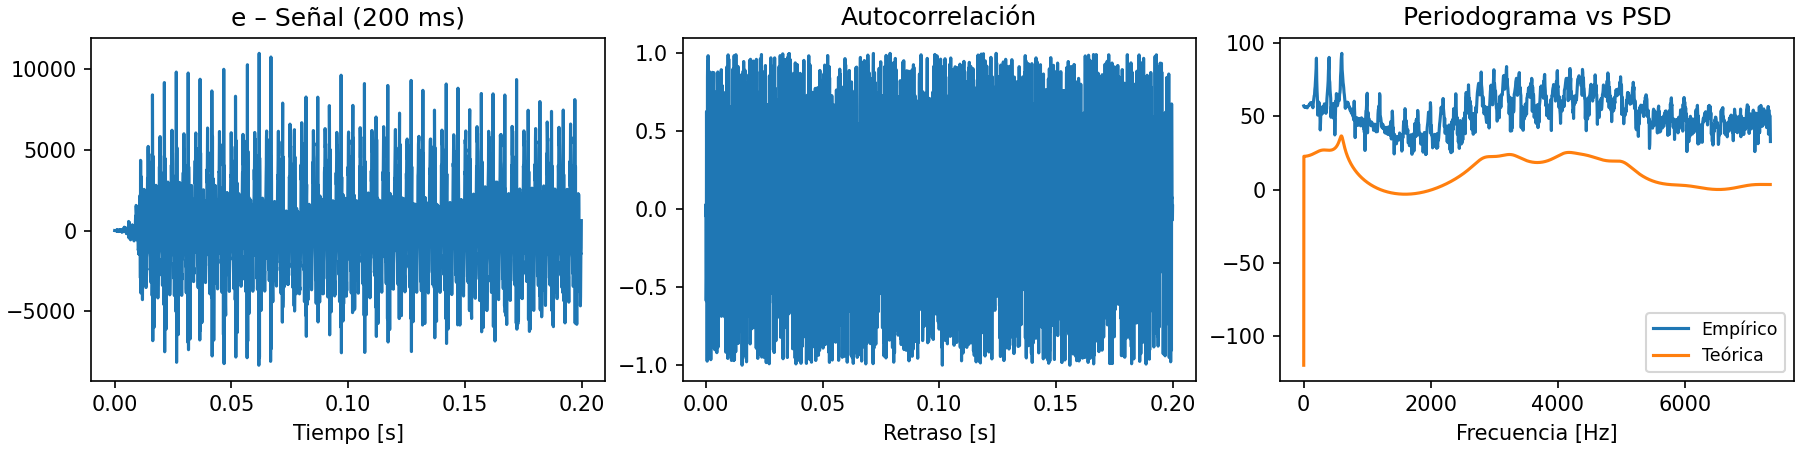
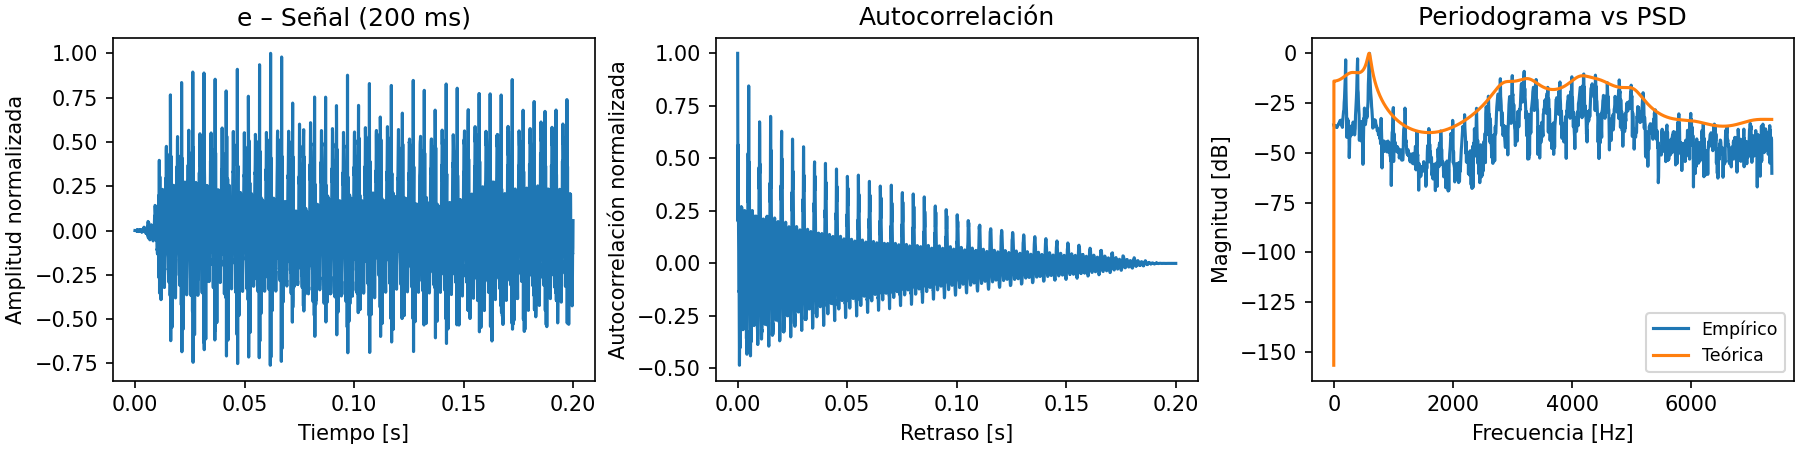
corregido ej1

diff --git a/Ej1.py b/Ej1.py
@@ -12,13 +12,18 @@ output_dir = 'output/ej1'
 os.makedirs(output_dir, exist_ok=True)
 
 for p in phonemes:
-    # Cargo y recorto 200 ms
+    # 1) Cargo WAV y tomo 200 ms
     rate, x = wavfile.read(f'{p}.wav')
-    assert rate == fs, f"Se esperaba {fs} Hz, pero {rate} Hz en {p}.wav"
+    assert rate == fs, f"Se esperaba {fs} Hz en {p}.wav, pero vino {rate} Hz"
     N = int(0.2 * fs)
-    seg = x[:N]
+    seg = x[:N].astype(float)
 
-    # Dominio del tiempo
+    # Normalizar señal a [-1,1]
+    max_val = np.max(np.abs(seg))
+    if max_val > 0:
+        seg /= max_val
+
+    # Eje de tiempo en segundos
     t = np.arange(N) / fs
 
     # Autocorrelación normalizada
@@ -26,13 +31,13 @@ for p in phonemes:
     ac = ac_full[N-1:] / np.max(np.abs(ac_full[N-1:]))
     lags = np.arange(len(ac)) / fs
 
-    # Periodograma con FFT de NumPy
+    # Periodograma empírico (FFT)
     X = np.fft.rfft(seg, n=N)
-    Pxx = (np.abs(X)**2) / N
+    Pxx = np.abs(X)**2 / N
     freqs = np.fft.rfftfreq(N, d=1/fs)
     Pxx_db = 10 * np.log10(Pxx + 1e-12)
 
-    # PSD teórica usando freqz
+    # PSD teórica del modelo AR
     a_coeffs = data.coef_a[p]
     b_coeffs = data.coef_b[p]
     b = b_coeffs
@@ -40,8 +45,7 @@ for p in phonemes:
     w, H = freqz(b, a, worN=N, fs=fs)
     H2 = np.abs(H)**2
 
-    # PSD de excitación
-    if p in ['sh', 'f', 's', 'j']:
+    if p in ['sh','f','s','j']:
         Su = np.ones_like(w)
     else:
         f_p, Su_p = data.psd_pulsos(f0=200, N=N, fs=fs)
@@ -50,17 +54,34 @@ for p in phonemes:
     SX = H2 * Su
     SX_db = 10 * np.log10(SX + 1e-12)
 
-    # Panel 1×3
+    # Normalizar PSD para comparar formas
+    Pxx_db_norm = Pxx_db - np.max(Pxx_db)
+    SX_db_norm = SX_db - np.max(SX_db)
+
+    # Panel 1×3: señal, autocorr, PSD normalizadas
     fig, axs = plt.subplots(1, 3, figsize=(12, 3), constrained_layout=True)
+
+    # (a) Señal en el dominio del tiempo
     axs[0].plot(t, seg)
-    axs[0].set(title=f'{p} – Señal (200 ms)', xlabel='Tiempo [s]')
+    axs[0].set(title=f'{p} – Señal (200 ms)',
+               xlabel='Tiempo [s]',
+               ylabel='Amplitud normalizada')
+
+    # (b) Autocorrelación
     axs[1].plot(lags, ac)
-    axs[1].set(title='Autocorrelación', xlabel='Retraso [s]')
-    axs[2].plot(freqs, Pxx_db, label='Empírico')
-    axs[2].plot(w, SX_db,     label='Teórica')
-    axs[2].set(title='Periodograma vs PSD', xlabel='Frecuencia [Hz]')
+    axs[1].set(title='Autocorrelación',
+               xlabel='Retraso [s]',
+               ylabel='Autocorrelación normalizada')
+
+    # (c) Periodograma vs PSD
+    axs[2].plot(freqs, Pxx_db_norm, label='Empírico')
+    axs[2].plot(w, SX_db_norm, label='Teórica')
+    axs[2].set(title='Periodograma vs PSD',
+               xlabel='Frecuencia [Hz]',
+               ylabel='Magnitud [dB]')
     axs[2].legend(fontsize='small')
 
+    # Guardar panel
     plt.savefig(f'{output_dir}/{p}_panel.png', dpi=150)
     plt.close(fig)
 
